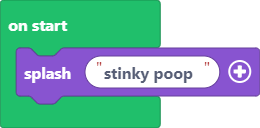
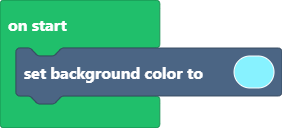
Update main.blocks, main.ts

diff --git a/main.ts b/main.ts
@@ -1,1 +1,1 @@
-game.splash("stinky poop")
+scene.setBackgroundColor(9)
